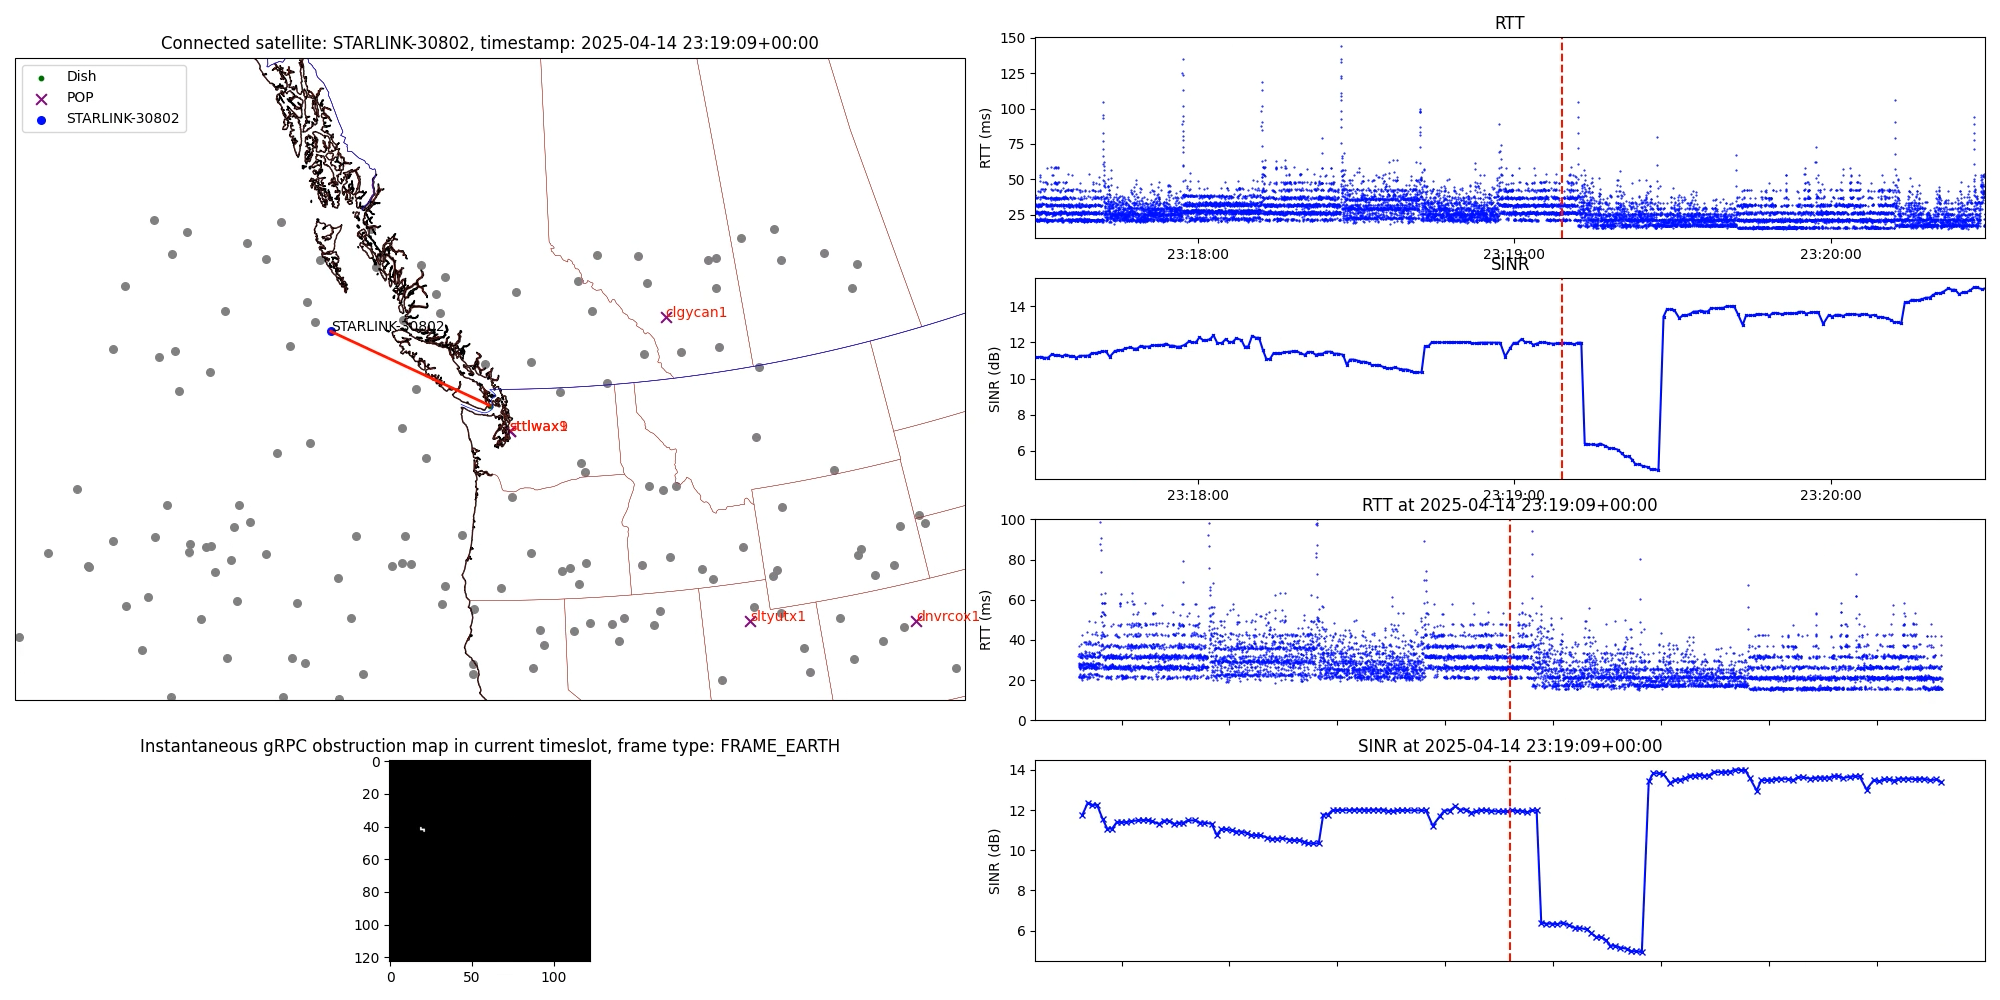
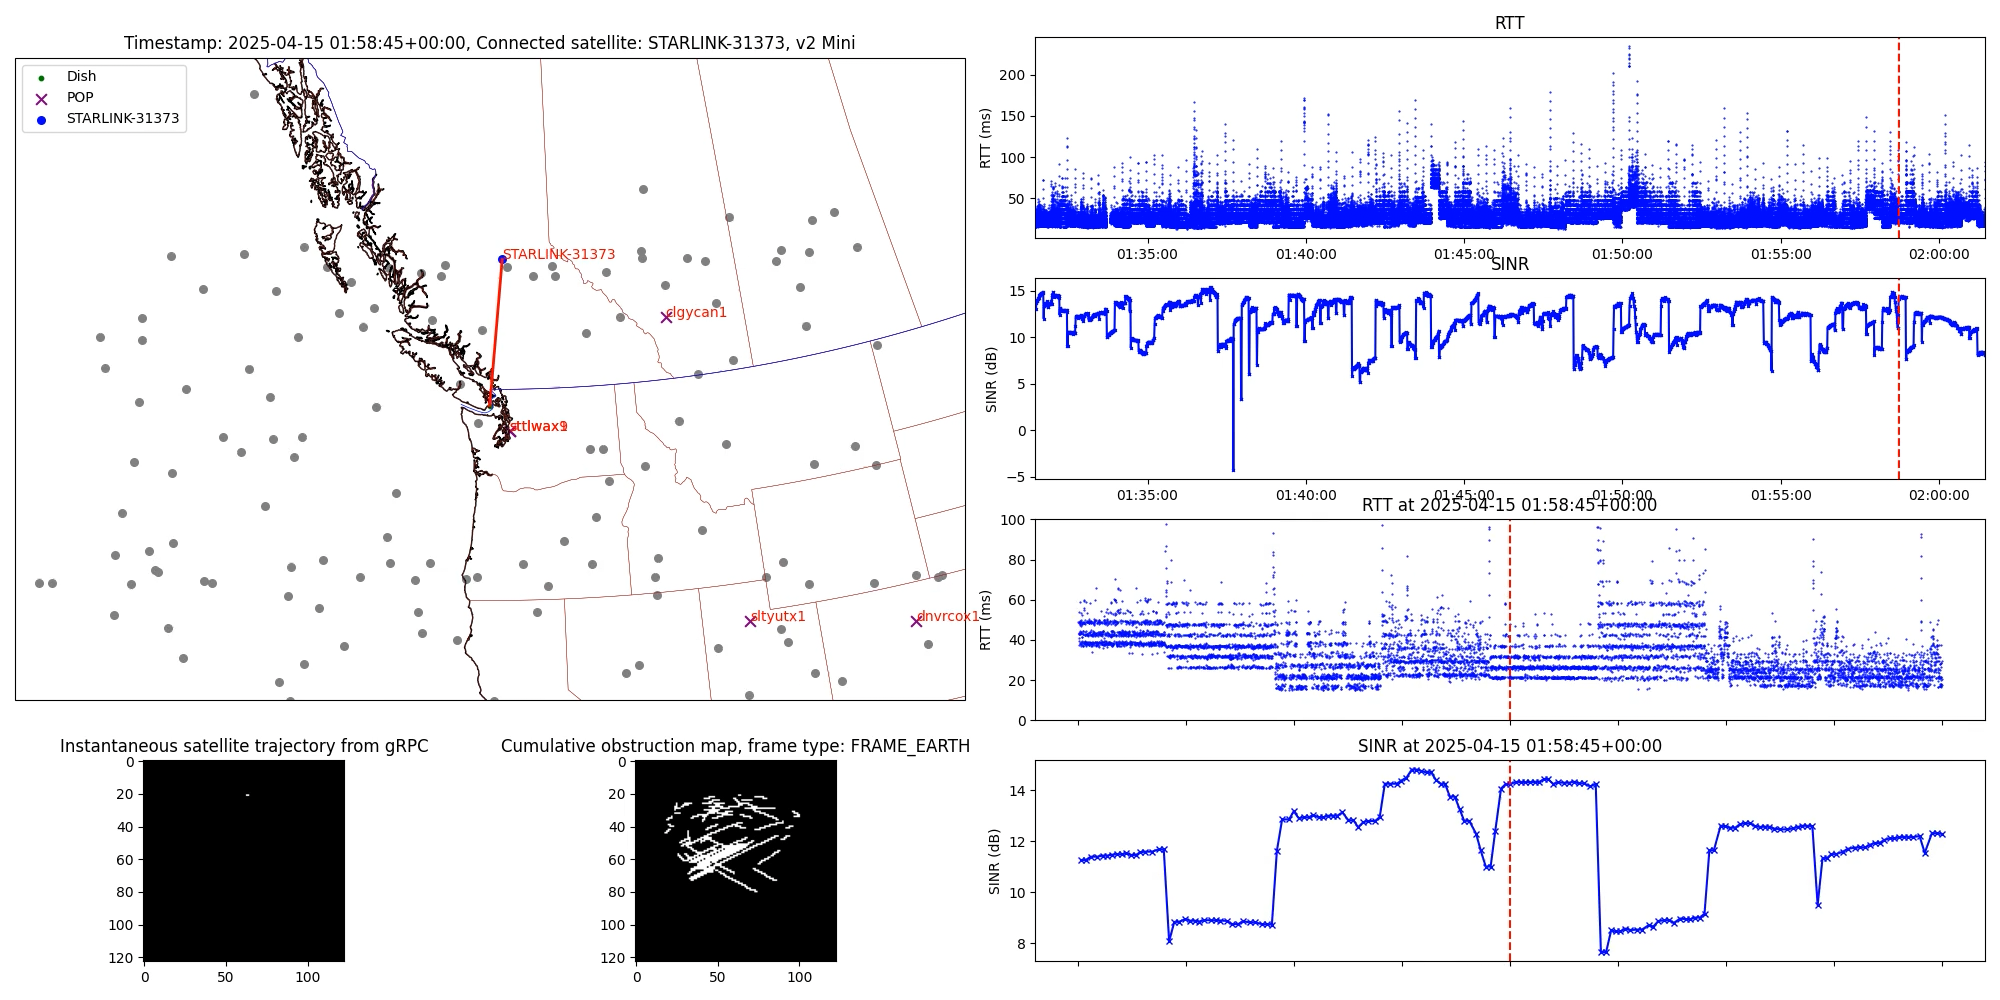
show cumulative obstruction map (#8)
* show cumulative obstruction map

* update screenshot

diff --git a/starlink/plot.py b/starlink/plot.py
@@ -2,6 +2,7 @@
 import os
 import argparse
 import subprocess
+from copy import deepcopy
 from pathlib import Path
 from datetime import datetime
 from multiprocessing import Pool
@@ -71,7 +72,14 @@ def get_starlink_generation_by_norad_id(norad_id):
         return "Unknown"
 
 
-def plot_once(row, df_obstruction_map, df_rtt, df_sinr, all_satellites):
+def plot_once(
+    row,
+    df_obstruction_map,
+    df_cumulative_obstruction_map,
+    df_rtt,
+    df_sinr,
+    all_satellites,
+):
     timestamp_str = row["Timestamp"]
     connected_sat_name = row["Connected_Satellite"]
     plot_current = pd.to_datetime(timestamp_str, format="%Y-%m-%d %H:%M:%S%z")
@@ -88,10 +96,10 @@ def plot_once(row, df_obstruction_map, df_rtt, df_sinr, all_satellites):
     fig = plt.figure(figsize=(20, 10))
     gs0 = gridspec.GridSpec(1, 2, figure=fig, width_ratios=[5, 5])
 
-    gs00 = gs0[0].subgridspec(4, 1)
+    gs00 = gs0[0].subgridspec(4, 2)
     axSat = fig.add_subplot(gs00[:3, :], projection=projStereographic)
-    # axObstructionMapCumulative = fig.add_subplot(gs00[3, 0])
-    axObstructionMapInstantaneous = fig.add_subplot(gs00[3, :])
+    axObstructionMapInstantaneous = fig.add_subplot(gs00[3, 0])
+    axObstructionMapCumulative = fig.add_subplot(gs00[3, 1])
 
     frame_type_int = df_obstruction_map["frame_type"].iloc[0]
     if frame_type_int == 0:
@@ -109,7 +117,18 @@ def plot_once(row, df_obstruction_map, df_rtt, df_sinr, all_satellites):
         cmap="gray",
     )
     axObstructionMapInstantaneous.set_title(
-        f"Instantaneous gRPC obstruction map in current timeslot, frame type: {FRAME_TYPE}"
+        f"Instantaneous satellite trajectory from gRPC"
+    )
+
+    cumulativeObstructionMap = get_obstruction_map_by_timestamp(
+        df_cumulative_obstruction_map, timestamp_str
+    )
+    axObstructionMapCumulative.imshow(
+        cumulativeObstructionMap,
+        cmap="gray",
+    )
+    axObstructionMapCumulative.set_title(
+        f"Cumulative obstruction map, frame type: {FRAME_TYPE}"
     )
 
     axSat.set_extent(
@@ -313,6 +332,23 @@ def plot_once(row, df_obstruction_map, df_rtt, df_sinr, all_satellites):
     print(f"Saved figure for {timestamp_str}")
 
 
+def cumulative_obstruction_map(df_obstruction_map: pd.DataFrame):
+    df_cumulative = df_obstruction_map.copy()
+
+    if len(df_obstruction_map) > 0:
+        current_cumulative = deepcopy(df_obstruction_map.iloc[0]["obstruction_map"])
+        df_cumulative.at[0, "obstruction_map"] = current_cumulative
+
+        for index in range(1, len(df_obstruction_map)):
+            current_cumulative = (
+                current_cumulative.astype(bool)
+                | df_obstruction_map.iloc[index]["obstruction_map"].astype(bool)
+            ).astype(int)
+            df_cumulative.at[index, "obstruction_map"] = deepcopy(current_cumulative)
+
+    return df_cumulative
+
+
 def plot():
     global projStereographic
     global centralLat
@@ -345,6 +381,7 @@ def plot():
         df_obstruction_map["timestamp"] = pd.to_datetime(
             df_obstruction_map["timestamp"], unit="s", utc=True
         )
+        df_cumulative_obstruction_map = cumulative_obstruction_map(df_obstruction_map)
 
     CPU_COUNT = os.cpu_count() - 1 if os.cpu_count() > 1 else 1
     print(f"Process count: {CPU_COUNT}")
@@ -356,7 +393,14 @@ def plot():
             # plot_once(row, df_obstruction_map, df_rtt, df_sinr, all_satellites)
             result = pool.apply_async(
                 plot_once,
-                args=(row, df_obstruction_map, df_rtt, df_sinr, all_satellites),
+                args=(
+                    row,
+                    df_obstruction_map,
+                    df_cumulative_obstruction_map,
+                    df_rtt,
+                    df_sinr,
+                    all_satellites,
+                ),
             )
             results.append(result)
 
